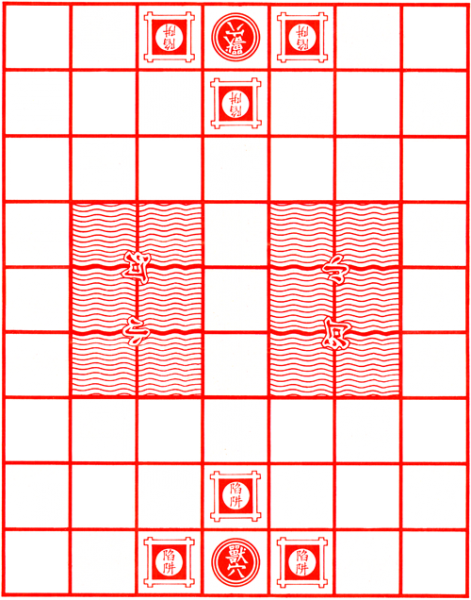
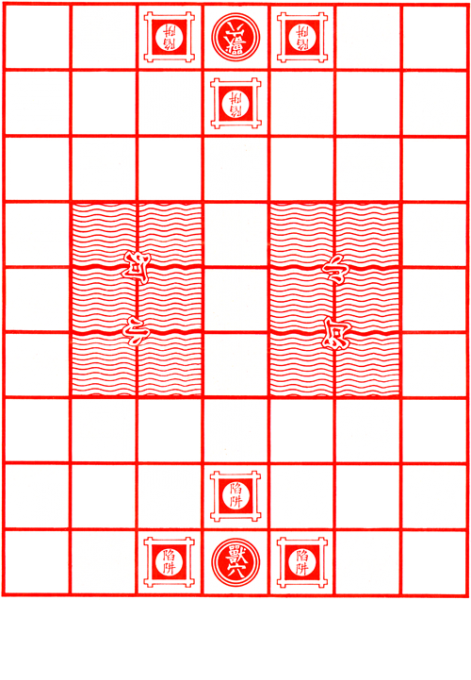
Jungle (hints)

diff --git a/public/dagaz/jungle-blue.html b/public/dagaz/jungle-blue.html
@@ -23,6 +23,23 @@
 <img id="RedElephant" style="display:none" src="images/jungle/redelephant.png">
 <img id="GreenElephant" style="display:none" src="images/jungle/blackelephant.png">
 
+<img id="RedRatH" style="display:none" src="images/jungle/redrath.png">
+<img id="GreenRatH" style="display:none" src="images/jungle/blackrath.png">
+<img id="RedCatH" style="display:none" src="images/jungle/redcath.png">
+<img id="GreenCatH" style="display:none" src="images/jungle/blackcath.png">
+<img id="RedDogH" style="display:none" src="images/jungle/reddogh.png">
+<img id="GreenDogH" style="display:none" src="images/jungle/blackdogh.png">
+<img id="RedFoxH" style="display:none" src="images/jungle/redfoxh.png">
+<img id="GreenFoxH" style="display:none" src="images/jungle/blackfoxh.png">
+<img id="RedPantherH" style="display:none" src="images/jungle/redpantherh.png">
+<img id="GreenPantherH" style="display:none" src="images/jungle/blackpantherh.png">
+<img id="RedTigerH" style="display:none" src="images/jungle/redtigerh.png">
+<img id="GreenTigerH" style="display:none" src="images/jungle/blacktigerh.png">
+<img id="RedLionH" style="display:none" src="images/jungle/redlionh.png">
+<img id="GreenLionH" style="display:none" src="images/jungle/blacklionh.png">
+<img id="RedElephantH" style="display:none" src="images/jungle/redelephanth.png">
+<img id="GreenElephantH" style="display:none" src="images/jungle/blackelephanth.png">
+
 <table style="margin:auto; font-family:sans-serif; font-size:14px" id="Table">
 <tr><td>
 <a href="javascript:Dagaz.Controller.home()" title="Home" style="display:none" id="home"><img src="images/home.png"/></a>
@@ -34,9 +51,9 @@
 <a href="javascript:Dagaz.Controller.redo()" title="PgUp" style="display:none" id="redo"><img src="images/redo.png"/></a>
 <div align="right" id="timer"/>
 </td></tr>
-<tr style="height:600px; vertical-align:top">
+<tr style="height:680px; vertical-align:top">
 <td id="CanvasCell" style="width:470px">
-<canvas id="Canvas" width="470" height="600" style="cursor:default">Broken canvas...</canvas>
+<canvas id="Canvas" width="470" height="680" style="cursor:default">Broken canvas...</canvas>
 </td><td style="width:470px;">
 <div style="height:510px; overflow:auto" id="ScrollDiv">
 <img id="GlyphImage"><p id="HelpText"></p>

diff --git a/public/dagaz/jungle.html b/public/dagaz/jungle.html
@@ -23,6 +23,23 @@
 <img id="RedElephant" style="display:none" src="images/jungle/redelephant.png">
 <img id="GreenElephant" style="display:none" src="images/jungle/blackelephant.png">
 
+<img id="RedRatH" style="display:none" src="images/jungle/redrath.png">
+<img id="GreenRatH" style="display:none" src="images/jungle/blackrath.png">
+<img id="RedCatH" style="display:none" src="images/jungle/redcath.png">
+<img id="GreenCatH" style="display:none" src="images/jungle/blackcath.png">
+<img id="RedDogH" style="display:none" src="images/jungle/reddogh.png">
+<img id="GreenDogH" style="display:none" src="images/jungle/blackdogh.png">
+<img id="RedFoxH" style="display:none" src="images/jungle/redfoxh.png">
+<img id="GreenFoxH" style="display:none" src="images/jungle/blackfoxh.png">
+<img id="RedPantherH" style="display:none" src="images/jungle/redpantherh.png">
+<img id="GreenPantherH" style="display:none" src="images/jungle/blackpantherh.png">
+<img id="RedTigerH" style="display:none" src="images/jungle/redtigerh.png">
+<img id="GreenTigerH" style="display:none" src="images/jungle/blacktigerh.png">
+<img id="RedLionH" style="display:none" src="images/jungle/redlionh.png">
+<img id="GreenLionH" style="display:none" src="images/jungle/blacklionh.png">
+<img id="RedElephantH" style="display:none" src="images/jungle/redelephanth.png">
+<img id="GreenElephantH" style="display:none" src="images/jungle/blackelephanth.png">
+
 <table style="margin:auto; font-family:sans-serif; font-size:14px" id="Table">
 <tr><td>
 <a href="javascript:Dagaz.Controller.home()" title="Home" style="display:none" id="home"><img src="images/home.png"/></a>
@@ -34,9 +51,9 @@
 <a href="javascript:Dagaz.Controller.redo()" title="PgUp" style="display:none" id="redo"><img src="images/redo.png"/></a>
 <div align="right" id="timer"/>
 </td></tr>
-<tr style="height:600px; vertical-align:top">
+<tr style="height:680px; vertical-align:top">
 <td id="CanvasCell" style="width:470px">
-<canvas id="Canvas" width="470" height="600" style="cursor:default">Broken canvas...</canvas>
+<canvas id="Canvas" width="470" height="680" style="cursor:default">Broken canvas...</canvas>
 </td><td style="width:470px;">
 <div style="height:510px; overflow:auto" id="ScrollDiv">
 <img id="GlyphImage"><p id="HelpText"></p>

diff --git a/public/dagaz/scripts/jungle.js b/public/dagaz/scripts/jungle.js
@@ -108,6 +108,7 @@ Dagaz.Model.BuildDesign = function(design) {
     design.addPosition("e1", [-1, 1, 0, -7]);
     design.addPosition("f1", [-1, 1, 0, -7]);
     design.addPosition("g1", [-1, 0, 0, -7]);
+    design.addPosition("X1", [0, 0, 0, 0]);
 
     design.addZone("trap", 1, [2, 10, 4]);
     design.addZone("trap", 2, [58, 52, 60]);
@@ -281,6 +282,23 @@ Dagaz.View.configure = function(view) {
     view.defPiece("GreenLion", "Green Lion");
     view.defPiece("RedElephant", "Red Elephant");
     view.defPiece("GreenElephant", "Green Elephant");
+
+    view.defPiece("RedRatH", "Red Rat Hint");
+    view.defPiece("GreenRatH", "Green Rat Hint");
+    view.defPiece("RedCatH", "Red Cat Hint");
+    view.defPiece("GreenCatH", "Green Cat Hint");
+    view.defPiece("RedDogH", "Red Dog Hint");
+    view.defPiece("GreenDogH", "Green Dog Hint");
+    view.defPiece("RedFoxH", "Red Fox Hint");
+    view.defPiece("GreenFoxH", "Green Fox Hint");
+    view.defPiece("RedPantherH", "Red Panther Hint");
+    view.defPiece("GreenPantherH", "Green Panther Hint");
+    view.defPiece("RedTigerH", "Red Tiger Hint");
+    view.defPiece("GreenTigerH", "Green Tiger Hint");
+    view.defPiece("RedLionH", "Red Lion Hint");
+    view.defPiece("GreenLionH", "Green Lion Hint");
+    view.defPiece("RedElephantH", "Red Elephant Hint");
+    view.defPiece("GreenElephantH", "Green Elephant Hint");
  
     view.defPosition("a9", 4, 3, 66, 66);
     view.defPosition("b9", 70, 3, 66, 66);
@@ -345,4 +363,5 @@ Dagaz.View.configure = function(view) {
     view.defPosition("e1", 268, 531, 66, 66);
     view.defPosition("f1", 334, 531, 66, 66);
     view.defPosition("g1", 400, 531, 66, 66);
+    view.defPosition("X1", 0, 600, 470, 660);
 }

diff --git a/public/dagaz/scripts/jungle-blue.js b/public/dagaz/scripts/jungle-blue.js
@@ -108,6 +108,7 @@ Dagaz.Model.BuildDesign = function(design) {
     design.addPosition("e1", [-1, 1, 0, -7]);
     design.addPosition("f1", [-1, 1, 0, -7]);
     design.addPosition("g1", [-1, 0, 0, -7]);
+    design.addPosition("X1", [0, 0, 0, 0]);
 
     design.addZone("trap", 1, [2, 10, 4]);
     design.addZone("trap", 2, [58, 52, 60]);
@@ -281,6 +282,23 @@ Dagaz.View.configure = function(view) {
     view.defPiece("GreenLion", "Green Lion");
     view.defPiece("RedElephant", "Red Elephant");
     view.defPiece("GreenElephant", "Green Elephant");
+
+    view.defPiece("RedRatH", "Red Rat Hint");
+    view.defPiece("GreenRatH", "Green Rat Hint");
+    view.defPiece("RedCatH", "Red Cat Hint");
+    view.defPiece("GreenCatH", "Green Cat Hint");
+    view.defPiece("RedDogH", "Red Dog Hint");
+    view.defPiece("GreenDogH", "Green Dog Hint");
+    view.defPiece("RedFoxH", "Red Fox Hint");
+    view.defPiece("GreenFoxH", "Green Fox Hint");
+    view.defPiece("RedPantherH", "Red Panther Hint");
+    view.defPiece("GreenPantherH", "Green Panther Hint");
+    view.defPiece("RedTigerH", "Red Tiger Hint");
+    view.defPiece("GreenTigerH", "Green Tiger Hint");
+    view.defPiece("RedLionH", "Red Lion Hint");
+    view.defPiece("GreenLionH", "Green Lion Hint");
+    view.defPiece("RedElephantH", "Red Elephant Hint");
+    view.defPiece("GreenElephantH", "Green Elephant Hint");
  
     view.defPosition("a9", 400, 531, 66, 66);
     view.defPosition("b9", 334, 531, 66, 66);
@@ -345,4 +363,5 @@ Dagaz.View.configure = function(view) {
     view.defPosition("e1", 136, 3, 66, 66);
     view.defPosition("f1", 70, 3, 66, 66);
     view.defPosition("g1", 4, 3, 66, 66);
+    view.defPosition("X1", 0, 600, 470, 660);
 }

diff --git a/src/migration/1596108130561-game.ts b/src/migration/1596108130561-game.ts
@@ -854,8 +854,8 @@ export class game1596108130561 implements MigrationInterface {
         await queryRunner.query(`insert into game_previews(id, filename, selector_value, preview, rules) values(560, 'backgammon', null, 'backgammon', 'https://bkgm.com/rules.html')`);
         await queryRunner.query(`insert into game_previews(id, filename, selector_value, preview, rules) values(561, 'hypergammon', null, 'hypergammon', 'https://bkgm.com/variants/HyperBackgammon.html')`);
         await queryRunner.query(`insert into game_previews(id, filename, selector_value, preview, copyright) values(562, 'cyclic-checkers', null, 'russian-checkers-1', 'Victor Bajguzhakov')`);
-        await queryRunner.query(`insert into game_previews(id, filename, selector_value, preview) values(563, 'duel', 1, 'duel-1')`);
-        await queryRunner.query(`insert into game_previews(id, filename, selector_value, preview) values(564, 'duel', 2, 'duel-2')`);
+        await queryRunner.query(`insert into game_previews(id, filename, selector_value, preview, copyright) values(563, 'duel', 1, 'duel-1', 'Parker Brothers')`);
+        await queryRunner.query(`insert into game_previews(id, filename, selector_value, preview, copyright) values(564, 'duel', 2, 'duel-2', 'Parker Brothers')`);
 }
 
     public async down(queryRunner: QueryRunner): Promise<any> {

diff --git a/public/dagaz/duel-north.html b/public/dagaz/duel-north.html
@@ -1,7 +1,7 @@
 <html>
 <head>
 <META http-equiv="Content-Type" content="text/html; charset=utf-8">
-<title>Duel</title>
+<title>Duell</title>
 </head>
 <body>
 
@@ -113,6 +113,7 @@
 <tr><td>
 <a href="javascript:Dagaz.Controller.home()" title="Home" style="display:none" id="home"><img src="images/home.png"/></a>
 <a href="javascript:Dagaz.Controller.undo()" title="PgDown" style="display:none" id="undo"><img src="images/undo.png"/></a>
+Copyright (c) Parker Brothers
 <a href="javascript:Dagaz.Controller.redo()" title="PgUp" style="display:none" id="redo"><img src="images/redo.png"/></a>
 <a href="javascript:Dagaz.Controller.resign()">I Resign</a>
 <a href="javascript:Dagaz.Controller.drawOffer()">Offer Draw</a>

diff --git a/public/dagaz/duel.html b/public/dagaz/duel.html
@@ -1,7 +1,7 @@
 <html>
 <head>
 <META http-equiv="Content-Type" content="text/html; charset=utf-8">
-<title>Duel</title>
+<title>Duell</title>
 </head>
 <body>
 
@@ -113,6 +113,7 @@
 <tr><td>
 <a href="javascript:Dagaz.Controller.home()" title="Home" style="display:none" id="home"><img src="images/home.png"/></a>
 <a href="javascript:Dagaz.Controller.undo()" title="PgDown" style="display:none" id="undo"><img src="images/undo.png"/></a>
+Copyright (c) Parker Brothers
 <a href="javascript:Dagaz.Controller.redo()" title="PgUp" style="display:none" id="redo"><img src="images/redo.png"/></a>
 <a href="javascript:Dagaz.Controller.resign()">I Resign</a>
 <a href="javascript:Dagaz.Controller.drawOffer()">Offer Draw</a>

diff --git a/public/dagaz/scripts/jungle-extension.js b/public/dagaz/scripts/jungle-extension.js
@@ -16,6 +16,17 @@ Dagaz.Model.checkVersion = function(design, name, value) {
   }
 }
 
+Dagaz.View.showPieceHint = function(view, ctx, piece) {
+  var design = Dagaz.Model.design;
+  var pos = Dagaz.Model.stringToPos("X1");
+  if (pos === null) return;
+  var frame = view.pos[pos];
+  if (!frame) return;
+  var r = view.piece[piece.name + " Hint"];
+  if (!r) return;
+  ctx.drawImage(r.h, frame.x, frame.y, r.dx, r.dy);
+}
+
 var isGe = function(a, b) {
   if ((a == 1) && (b == 8)) {
       return true;
